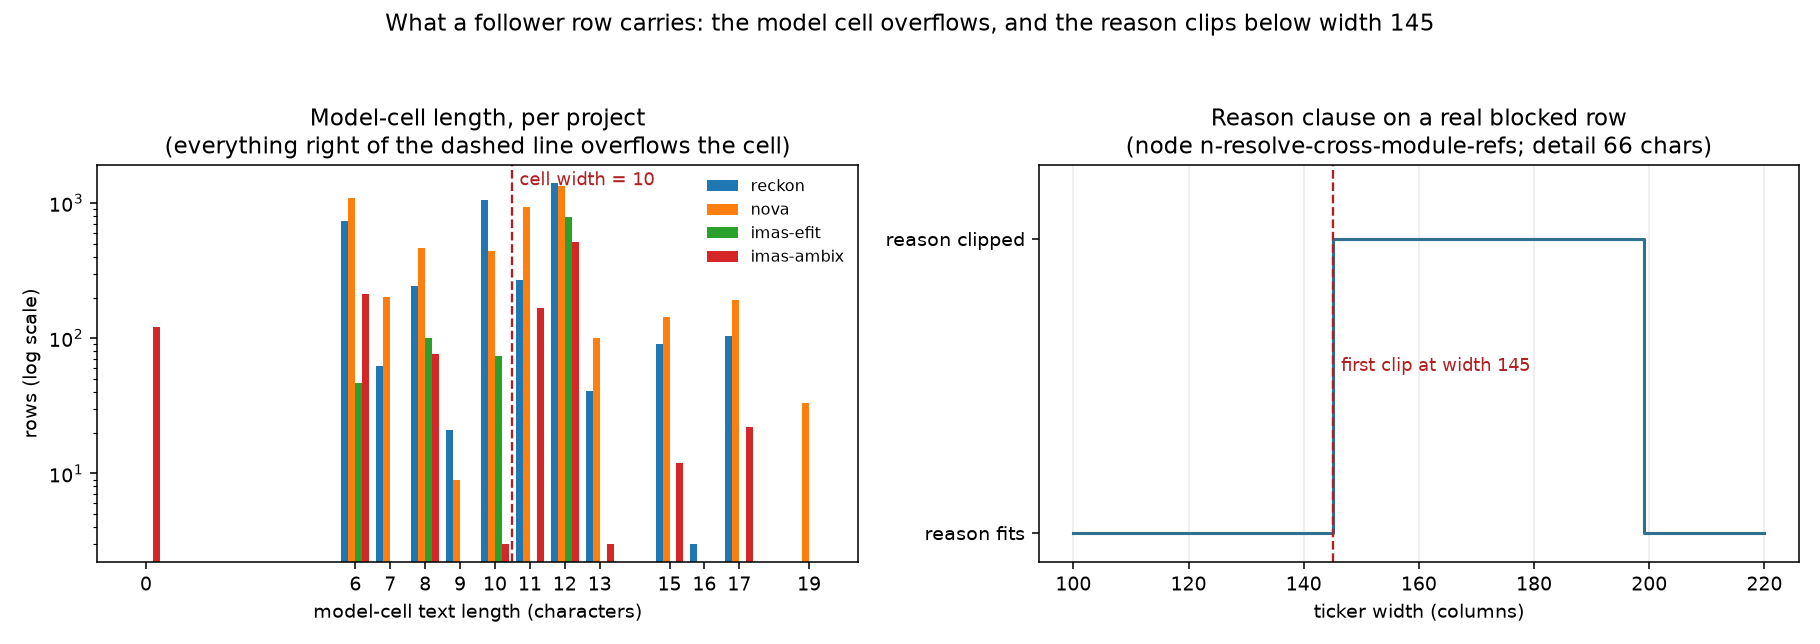
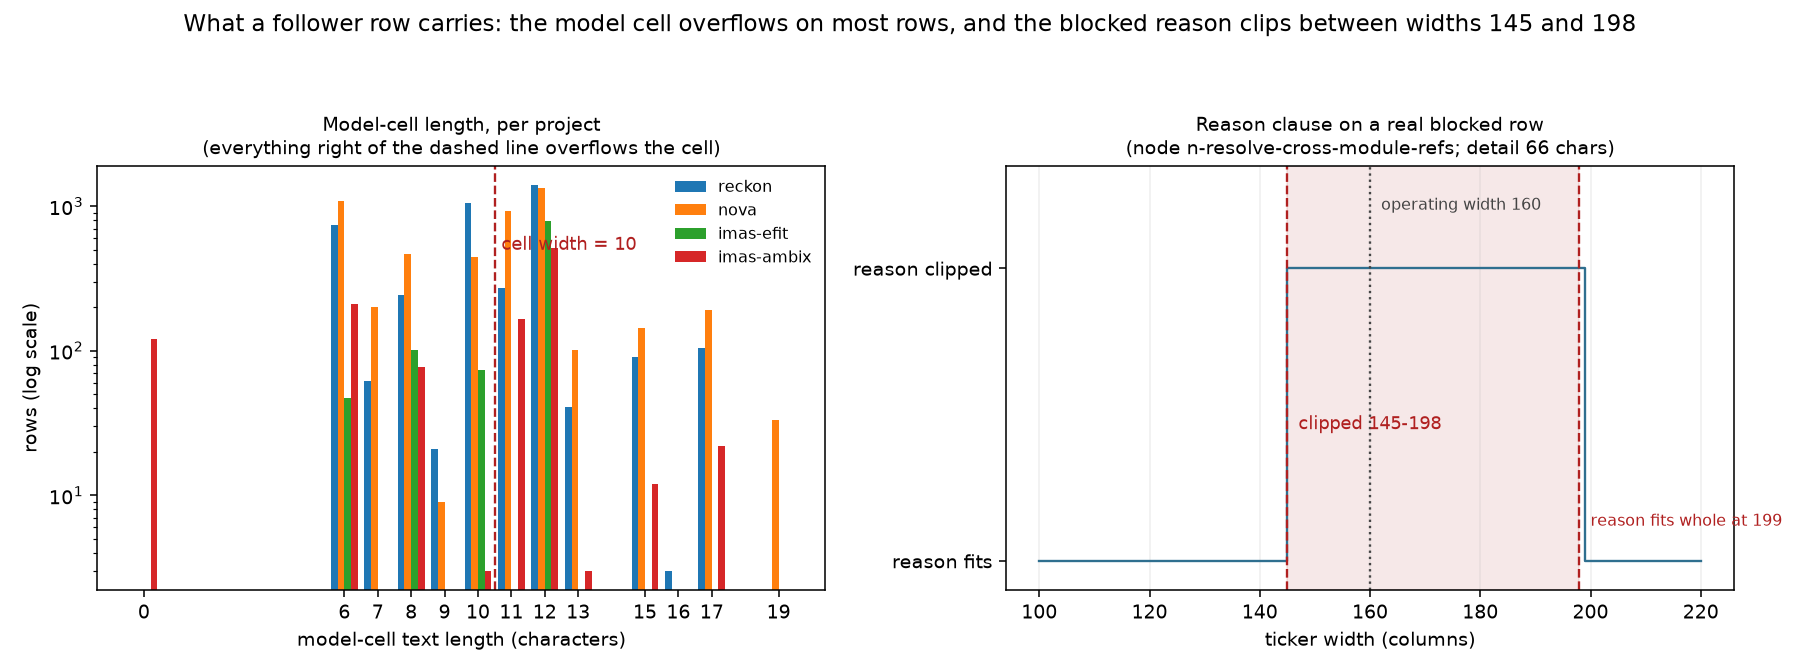
docs(research): record the row census reason clip as a window
The width sweep showed the reason clause clipped across a contiguous
window rather than from a single threshold upward: it is cut from width
145 to 198 and fits whole again at 199, because a wider pane eventually
carries the whole clause. The data file, the evidence table and the
figure now state the window and its upper bound rather than the first
clip point alone, and the figure marks the operating width of 160, which
falls inside it.

The gate that guards the census asserts the clipped widths form one
contiguous window and that nothing above it clips, so a future change
that reported only a lower bound would fail rather than pass quietly.

diff --git a/docs/evidence/archive/the-monitor-under-measurement-landed.html b/docs/evidence/archive/the-monitor-under-measurement-landed.html
@@ -13,7 +13,7 @@
   <meta name="plan-recorded-at" content="2026-09-22">
   <meta name="plan-verdict" content="pass">
   <meta name="plan-environment" content="Linux workstation; Python 3.14 project venv; detached git worktree; matplotlib">
-  <meta name="plan-commits" content="91a4e14e">
+  <meta name="plan-commits" content="91a4e14e,73cbb5c0">
   <meta name="plan-artifacts" content="docs/research/data/monitor-row-census.json,docs/figures/the-monitor-under-measurement/model-cell-and-reason-clip.png">
   <title>The Monitor Under Measurement &mdash; landed evidence | reckon</title>
   <link rel="stylesheet" href="/_shared/foundation.css">
@@ -92,11 +92,14 @@
 
     <h3>The clip point</h3>
     <p>One real blocked row (<code>n-resolve-cross-module-refs</code>, detail 66 characters) is
-    rendered at every width from 100 to 220. The reason first clips at <strong>width
-    145</strong>. Between 100 and 144 the reason does not render at all: the margin is below the
-    twelve-column floor, so the cell is suppressed rather than truncated. That is why no row
-    blanks a reason for want of margin at the operating width of 160 &mdash; the margin question
-    only arises below the width at which the clause stops appearing entirely.</p>
+    rendered at every width from 100 to 220. The reason is clipped across a single contiguous
+    window, <strong>widths 145 to 198</strong>, and fits whole again at 199. Below 145 the
+    reason does not render at all: the margin is below the twelve-column floor, so the cell is
+    suppressed rather than truncated. The <strong>operating width of 160 lies inside the clip
+    window</strong>, so this row's clause is cut in ordinary use &mdash; and 199 columns is what
+    it would take to carry a 66-character reason whole. That is why no row blanks a reason for
+    want of margin at width 160: the margin question only arises below the width at which the
+    clause stops appearing entirely, and at 160 the clause is present but shortened.</p>
 
     <h3>What the counts settle</h3>
     <p>The from-and-to pair is present on every transition in every project, so a

diff --git a/docs/plans/the-monitor-under-measurement.html b/docs/plans/the-monitor-under-measurement.html
@@ -126,9 +126,10 @@
     appear in 2291 / 1378 / 186 / 68 rows, with 4 / 9 live-name collisions where two distinct
     live runs truncate to one string. The from-and-to pair is present on every transition, so a
     destination-only layout shortens exactly the transition rows: 2889 / 3887 / 748 / 844. The
-    blocked-row clip point is width 145, and no row ever blanks a reason for want of margin at
-    width 160 &mdash; the margin binds only below the floor where the reason stops rendering at
-    all. Baselines are 28.2&nbsp;% / 21.3&nbsp;% / 26.5&nbsp;% / 25.4&nbsp;% of records, and
+    blocked-row reason is clipped across a contiguous window, widths 145 to 198, and fits whole
+    again at 199 &mdash; the operating width of 160 sits inside that window, so a clause of this
+    length is cut in ordinary use. No row ever blanks a reason for want of margin at width 160;
+    the margin binds only below the floor where the reason stops rendering at all. Baselines are 28.2&nbsp;% / 21.3&nbsp;% / 26.5&nbsp;% / 25.4&nbsp;% of records, and
     each project&rsquo;s stream also carries pre-JSON plain-text lines (444 / 1164 / 0 / 262)
     that hold no structured fields and are counted separately rather than rendered.</p>
     <p>Evidence anchor:
